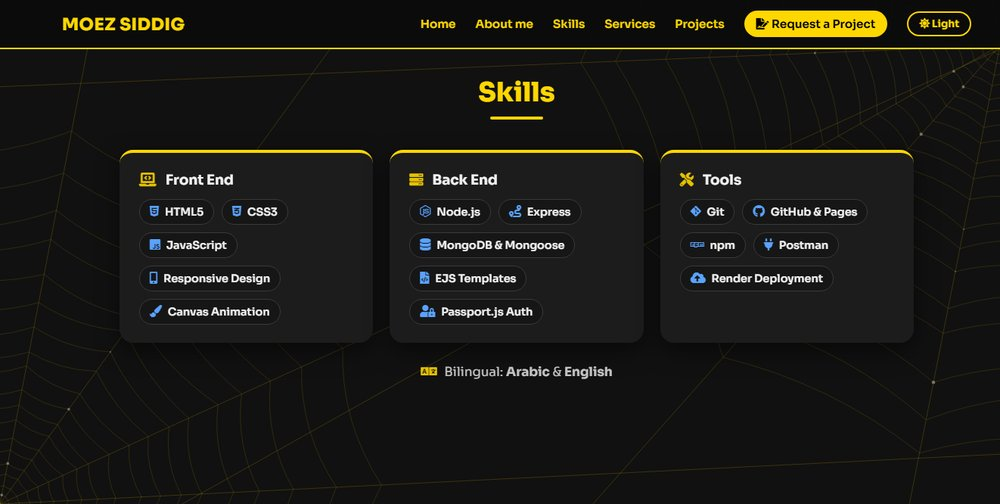
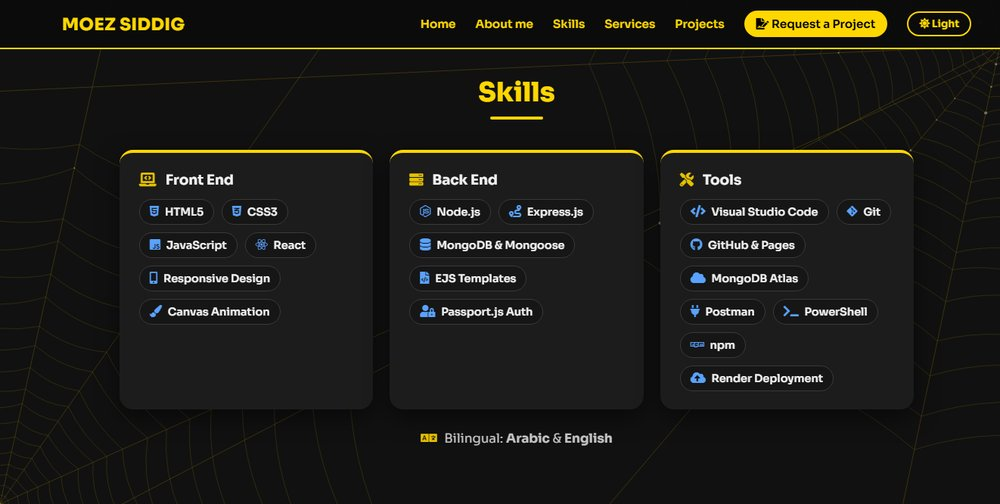
Add React, Express.js, VS Code, MongoDB Atlas and PowerShell to skills

diff --git a/index.html b/index.html
@@ -145,6 +145,7 @@
           <li><i class="fab fa-html5"></i> HTML5</li>
           <li><i class="fab fa-css3-alt"></i> CSS3</li>
           <li><i class="fab fa-js-square"></i> JavaScript</li>
+          <li><i class="fab fa-react"></i> React</li>
           <li><i class="fas fa-mobile-alt"></i> Responsive Design</li>
           <li><i class="fas fa-paint-brush"></i> Canvas Animation</li>
         </ul>
@@ -154,7 +155,7 @@
         <h3><i class="fas fa-server"></i> Back End</h3>
         <ul>
           <li><i class="fab fa-node-js"></i> Node.js</li>
-          <li><i class="fas fa-route"></i> Express</li>
+          <li><i class="fas fa-route"></i> Express.js</li>
           <li><i class="fas fa-database"></i> MongoDB &amp; Mongoose</li>
           <li><i class="fas fa-file-code"></i> EJS Templates</li>
           <li><i class="fas fa-user-lock"></i> Passport.js Auth</li>
@@ -164,10 +165,13 @@
       <div class="skill-group">
         <h3><i class="fas fa-tools"></i> Tools</h3>
         <ul>
+          <li><i class="fas fa-code"></i> Visual Studio Code</li>
           <li><i class="fab fa-git-alt"></i> Git</li>
           <li><i class="fab fa-github"></i> GitHub &amp; Pages</li>
-          <li><i class="fab fa-npm"></i> npm</li>
+          <li><i class="fas fa-cloud"></i> MongoDB Atlas</li>
           <li><i class="fas fa-plug"></i> Postman</li>
+          <li><i class="fas fa-terminal"></i> PowerShell</li>
+          <li><i class="fab fa-npm"></i> npm</li>
           <li><i class="fas fa-cloud-upload-alt"></i> Render Deployment</li>
         </ul>
       </div>
